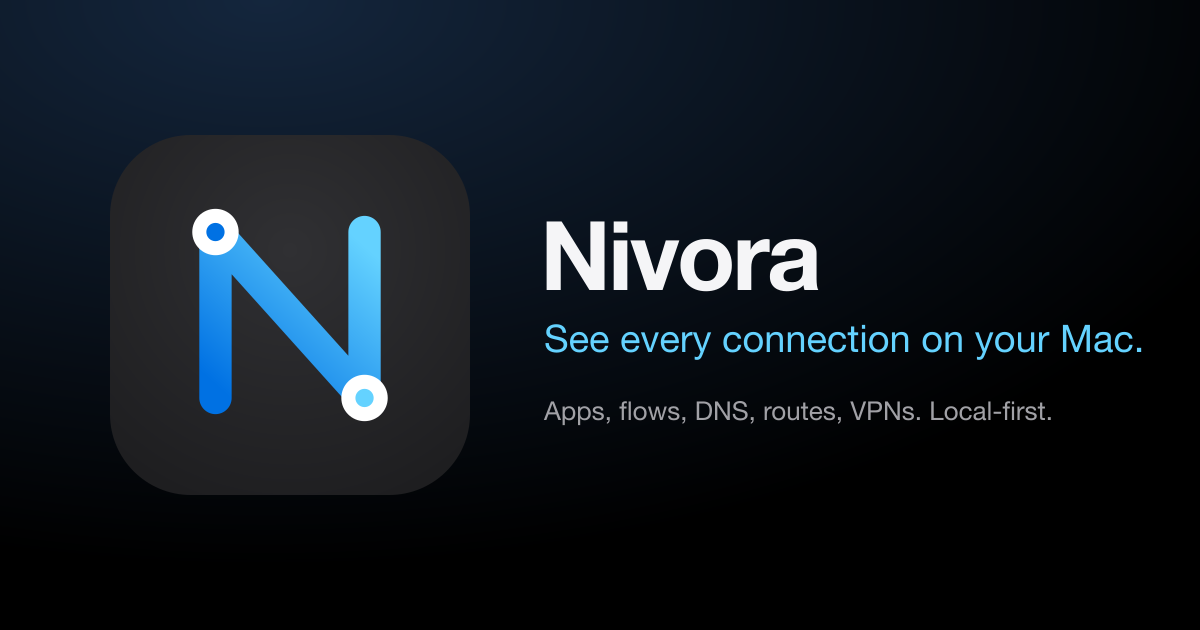
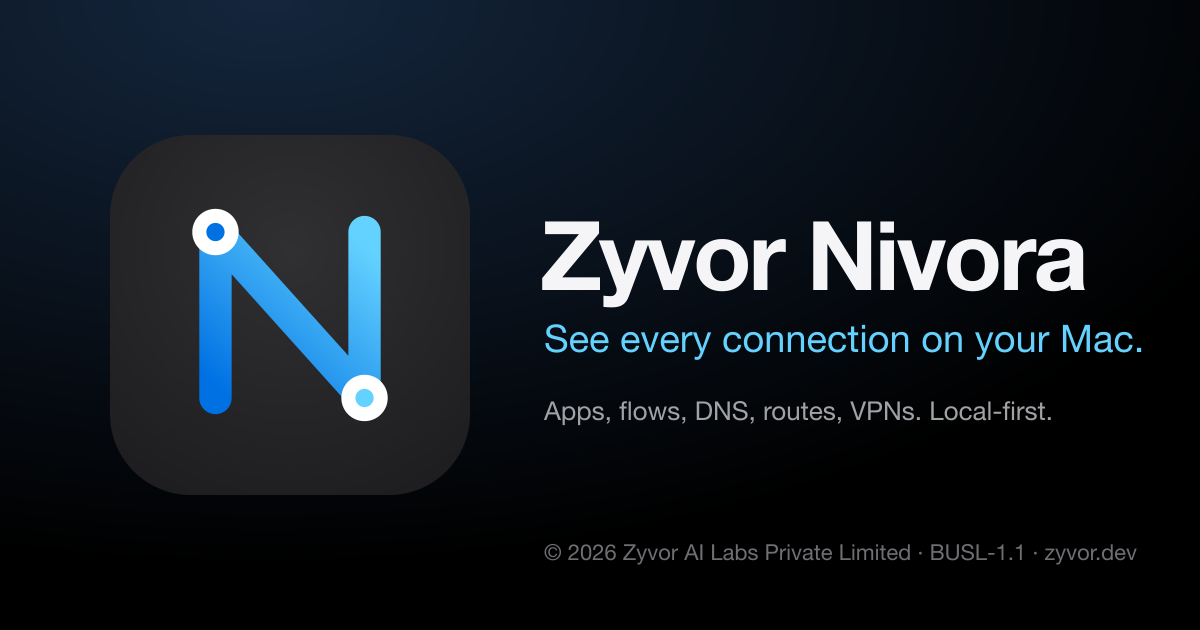
feat: welcome sheet, Overview sparklines and events, help menu, Zyvor legal line
Zyvor name, copyright and BUSL-1.1 wording now match Zyvor Vytrix across the
bundle, app, dashboard and share image.

Changed region(s): [[0.4317, 0.3317, 0.925, 0.4825], [0.4625, 0.8444, 0.8325, 0.9048], [0.8633, 0.8746, 0.9558, 0.9048]]

diff --git a/native/App/Views/WelcomeView.swift b/native/App/Views/WelcomeView.swift
@@ -1,0 +1,87 @@
+// SPDX-License-Identifier: BUSL-1.1
+import SwiftUI
+
+/// Shown once on first launch: what Nivora sees, what it never does, and how to start.
+struct WelcomeView: View {
+    @EnvironmentObject var store: NivoraStore
+    @Environment(\.dismiss) private var dismiss
+
+    var body: some View {
+        VStack(spacing: 22) {
+            VStack(spacing: 8) {
+                Image(nsImage: NSApp.applicationIconImage).resizable().frame(width: 72, height: 72)
+                Text("Welcome to Nivora").netraTitle(26)
+                Text("See every connection on your Mac.").foregroundStyle(Palette.textSecondary)
+            }
+            HStack(alignment: .top, spacing: 14) {
+                card("eye", "What it sees",
+                     "Which apps talk to what, over which interface: flows, DNS, routes, VPNs, listeners and local neighbours.")
+                card("lock.shield", "What it never does",
+                     "No packet payloads, no uploads, no blocking by default. Everything stays on this Mac and starts in observe mode.")
+                card("slider.horizontal.3", "Go further",
+                     "Add the signed content filter for per-app attribution, or the opt-in capture helper. Both ask for your approval.")
+            }
+            .fixedSize(horizontal: false, vertical: true)
+            HStack {
+                Button("Explore with demo data") { store.useDemo(); finish() }
+                Spacer()
+                Button("Start monitoring this Mac") { store.useThisMac(); finish() }
+                    .buttonStyle(.borderedProminent).keyboardShortcut(.defaultAction)
+            }
+            LegalLine()
+        }
+        .padding(28)
+        .frame(width: 640)
+        .background(Palette.page)
+    }
+
+    private func finish() {
+        UserDefaults.standard.set(true, forKey: WelcomeGate.defaultsKey)
+        dismiss()
+    }
+
+    private func card(_ symbol: String, _ title: String, _ body: String) -> some View {
+        VStack(alignment: .leading, spacing: 8) {
+            Image(systemName: symbol).font(.system(size: 20, weight: .medium)).foregroundStyle(Palette.accent)
+            Text(title).font(.headline)
+            Text(body).font(.callout).foregroundStyle(Palette.textSecondary).fixedSize(horizontal: false, vertical: true)
+        }
+        .padding(16)
+        .frame(maxWidth: .infinity, maxHeight: .infinity, alignment: .topLeading)
+        .background(Palette.panel, in: RoundedRectangle(cornerRadius: 14))
+    }
+}
+
+/// ⌘/ cheat sheet.
+struct ShortcutsView: View {
+    @Environment(\.dismiss) private var dismiss
+    private let rows: [(String, String)] = [
+        ("⌘1 … ⌘9", "Jump to a pane"), ("⌘,", "Settings"), ("⌘R", "Refresh now"), ("⌘P", "Pause or resume sampling"),
+        ("⇧⌘1 / ⇧⌘2", "Monitor this Mac / demo data"), ("⌘F", "Filter flows and apps (app: host: port: proto: >1mbps)"),
+        ("⌘/", "This list"),
+    ]
+    var body: some View {
+        VStack(alignment: .leading, spacing: 12) {
+            HStack { Text("Keyboard shortcuts").netraTitle(18); Spacer(); Button("Done") { dismiss() }.keyboardShortcut(.cancelAction) }
+            ForEach(rows, id: \.0) { k, v in
+                HStack { Text(k).font(.system(.callout, design: .monospaced)).frame(width: 110, alignment: .leading); Text(v).foregroundStyle(Palette.textSecondary) }
+            }
+        }
+        .padding(24).frame(width: 460).background(Palette.page)
+    }
+}
+
+/// "Zyvor Nivora · © 2026 Zyvor AI Labs Private Limited · BUSL-1.1", same wording as Zyvor Vytrix.
+struct LegalLine: View {
+    private var version: String { Bundle.main.object(forInfoDictionaryKey: "CFBundleShortVersionString") as? String ?? "" }
+    var body: some View {
+        VStack(spacing: 2) {
+            Text("Zyvor Nivora \(version)").font(.caption.weight(.medium))
+            HStack(spacing: 4) {
+                Text("© 2026 Zyvor AI Labs Private Limited · BUSL-1.1 ·")
+                Link("zyvor.dev", destination: URL(string: "https://zyvor.dev")!)
+            }
+        }
+        .font(.caption).foregroundStyle(Palette.textSecondary)
+    }
+}

diff --git a/web/index.html b/web/index.html
@@ -4,6 +4,7 @@
   <meta charset="utf-8" />
   <meta name="viewport" content="width=device-width,initial-scale=1" />
   <meta name="color-scheme" content="light dark" />
+  <meta name="author" content="Zyvor AI Labs Private Limited" />
   <title>Nivora — Mac network intelligence</title>
   <meta name="theme-color" content="#1d1d1f" />
   <link rel="icon" href="favicon.svg" type="image/svg+xml" />
@@ -20,7 +21,7 @@
     </div>
     <div class="shell">
       <aside class="sidebar">
-        <div class="brand"><div class="brand-mark">N</div><div><strong>Nivora</strong><small>Network Intelligence</small></div></div>
+        <div class="brand"><img class="brand-icon" src="favicon.svg" width="30" height="30" alt="" /><div><strong>Nivora</strong><small>Network Intelligence</small></div></div>
         <div class="status-pill"><span id="liveDot" class="dot"></span><span id="liveLabel" role="status" aria-live="polite">Connecting</span></div>
         <nav id="nav">
           <div class="nav-label">Monitor</div>
@@ -52,6 +53,7 @@
       <section class="content">
         <header class="content-header"><div><p id="eyebrow">Monitor</p><h1 id="viewTitle">Overview</h1><p id="viewSubtitle">What is talking to what, through which network.</p></div><div class="header-actions"><div class="search"><span>⌕</span><input id="search" aria-label="Search" placeholder="Filter…  app:Safari port:443  ( / )" /></div><button id="exportCsvBtn" class="glass-btn" title="Export…">Export</button><button id="refreshBtn" class="glass-btn" title="Refresh (r)">Refresh</button></div></header>
         <div id="contentBody" class="content-body"></div>
+        <footer class="legal"><b>Zyvor Nivora</b> · © 2026 Zyvor AI Labs Private Limited · BUSL-1.1 · <a href="https://zyvor.dev" rel="noopener">zyvor.dev</a></footer>
       </section>
     </div>
   </main>
@@ -92,7 +94,7 @@
 
   <dialog id="connectDialog">
     <form method="dialog" class="dialog-card">
-      <div class="brand-mark large">N</div>
+      <img class="brand-icon large" src="favicon.svg" width="48" height="48" alt="" />
       <h2>Connect to Nivora</h2>
       <p>The collector protects its local API with a bearer token. Paste the token printed by <code>nivora.py</code>. It is kept only in this tab.</p>
       <label>Token<input id="tokenInput" type="password" autocomplete="off" placeholder="NIVORA_TOKEN" /></label>

diff --git a/native/App/Views/OverviewView.swift b/native/App/Views/OverviewView.swift
@@ -31,8 +31,22 @@ struct OverviewView: View {
                                         HStack { Text(app.name).font(.callout.weight(.medium)); Spacer(); Text(rateString(app.total_bps)).font(.callout).monospacedDigit().foregroundStyle(Palette.textSecondary) }
                                         Meter(fraction: app.total_bps / peak)
                                     }
+                                    Sparkline(values: store.appRates[app.name]).frame(width: 64, height: 24)
                                 }
                             }.buttonStyle(.plain)
+                        }
+                    }
+                    VStack(spacing: 16) {
+                    Panel(title: "What changed", subtitle: "Recent network events") {
+                        let events = Array((s.recent_events ?? []).suffix(4).reversed())
+                        if events.isEmpty {
+                            Text("Nothing has changed since Nivora started watching.").foregroundStyle(Palette.textSecondary)
+                        }
+                        ForEach(events) { e in
+                            VStack(alignment: .leading, spacing: 2) {
+                                Text(e.title).font(.callout.weight(.medium))
+                                if let d = e.detail, !d.isEmpty { Text(d).font(.caption).foregroundStyle(Palette.textSecondary) }
+                            }
                         }
                     }
                     Panel(title: "What needs attention") {
@@ -41,6 +55,7 @@ struct OverviewView: View {
                         } else {
                             ForEach(store.alerts.prefix(5)) { AlertRow(alert: $0) }
                         }
+                    }
                     }
                 }
             }

diff --git a/native/App/Model/Welcome.swift b/native/App/Model/Welcome.swift
@@ -1,0 +1,33 @@
+// SPDX-License-Identifier: BUSL-1.1
+import Foundation
+
+/// First-run gating, kept pure so it can be unit tested.
+enum WelcomeGate {
+    static let defaultsKey = "nivora.welcomed"
+
+    /// Shown once, never while scripting screenshots (`--demo`, `--section`) or after the user has seen it.
+    static func shouldShow(welcomed: Bool, arguments: [String] = CommandLine.arguments) -> Bool {
+        if arguments.contains("--welcome") { return true }   // forces the sheet (screenshots, QA)
+        if welcomed { return false }
+        return !arguments.contains("--demo") && !arguments.contains("--section") && !arguments.contains("--no-welcome")
+    }
+}
+
+/// Fixed-size ring buffer of recent values per key (per-app and per-flow sparklines).
+struct RateHistory {
+    private(set) var series: [String: [Double]] = [:]
+    let capacity: Int
+
+    init(capacity: Int = 60) { self.capacity = capacity }
+
+    /// Appends one sample per live key and drops keys that disappeared.
+    mutating func record(_ values: [String: Double]) {
+        for (k, v) in values {
+            series[k, default: []].append(v)
+            if series[k]!.count > capacity { series[k]!.removeFirst(series[k]!.count - capacity) }
+        }
+        for k in series.keys where values[k] == nil { series[k] = nil }
+    }
+
+    subscript(key: String) -> [Double] { series[key] ?? [] }
+}

diff --git a/native/App/Views/RootView.swift b/native/App/Views/RootView.swift
@@ -5,6 +5,8 @@ struct RootView: View {
     @EnvironmentObject var store: NivoraStore
     @EnvironmentObject var filter: NivoraFilterManager
     @State private var section: Pane?
+    @State private var showWelcome = WelcomeGate.shouldShow(welcomed: UserDefaults.standard.bool(forKey: WelcomeGate.defaultsKey))
+    @State private var showShortcuts = false
 
     var body: some View {
         NavigationSplitView {
@@ -71,6 +73,9 @@ struct RootView: View {
         .sheet(item: Binding(get: { store.selectedFlow.map(FlowSelection.init) }, set: { store.selectedFlow = $0?.id })) { sel in
             FlowDetailSheet(flowID: sel.id)
         }
+        .sheet(isPresented: $showWelcome) { WelcomeView() }
+        .sheet(isPresented: $showShortcuts) { ShortcutsView() }
+        .onReceive(NotificationCenter.default.publisher(for: .nivoraShowShortcuts)) { _ in showShortcuts = true }
         .task { await filter.load() }
         .onAppear { if section == nil { section = store.pane ?? .overview } }
         // Keep the sidebar selection and the persisted/menu-driven pane in sync without recreating bindings.
@@ -113,3 +118,5 @@ struct HostFooter: View {
 }
 
 struct FlowSelection: Identifiable { let id: String }
+
+extension Notification.Name { static let nivoraShowShortcuts = Notification.Name("nivora.showShortcuts") }

diff --git a/native/App/Model/NivoraStore.swift b/native/App/Model/NivoraStore.swift
@@ -75,6 +75,7 @@ final class NivoraStore: ObservableObject {
     }
     @Published private(set) var baseline: (time: Date, flows: [NivoraSnapshot.Flow])?
     @Published private(set) var flowRates: [String: [Double]] = [:]
+    @Published private(set) var appRates = RateHistory()
 
     func pinBaseline() { if let s = snapshot { baseline = (Date(), s.flows) } }
     func clearBaseline() { baseline = nil }
@@ -185,6 +186,9 @@ final class NivoraStore: ObservableObject {
             for f in s.flows { rates[f.id, default: []].append(f.total_bps); if rates[f.id]!.count > 60 { rates[f.id]!.removeFirst() } }
             for k in rates.keys where !s.flows.contains(where: { $0.id == k }) { rates[k] = nil }
             flowRates = rates
+            var appBuf = appRates
+            appBuf.record(Dictionary(s.apps.map { ($0.name, $0.total_bps) }, uniquingKeysWith: { a, b in a + b }))
+            appRates = appBuf
             history.append(Sample(time: Date(), rx: s.traffic.rx_bps, tx: s.traffic.tx_bps, health: s.health.score, flows: s.flows.count))
             if history.count > maxSamples { history.removeFirst(history.count - maxSamples) }
             status = .live

diff --git a/native/App/NivoraApp.swift b/native/App/NivoraApp.swift
@@ -56,6 +56,14 @@ struct NivoraApp: App {
                 Divider()
                 Button("Settings") { store.pane = .settings }.keyboardShortcut(",", modifiers: .command)
             }
+            CommandGroup(replacing: .help) {
+                Button("Keyboard Shortcuts") { NotificationCenter.default.post(name: .nivoraShowShortcuts, object: nil) }
+                    .keyboardShortcut("/", modifiers: .command)
+                Divider()
+                Link("Nivora on GitHub", destination: URL(string: "https://github.com/zyvorai/zyvor-nivora")!)
+                Link("Privacy and What Nivora Collects", destination: URL(string: "https://github.com/zyvorai/zyvor-nivora#privacy-and-safety")!)
+                Link("Report an Issue", destination: URL(string: "https://github.com/zyvorai/zyvor-nivora/issues/new")!)
+            }
             CommandMenu("Source") {
                 Button("Monitor This Mac") { store.useThisMac() }.keyboardShortcut("1", modifiers: [.command, .shift])
                 Button("Show Demo Data") { store.useDemo() }.keyboardShortcut("2", modifiers: [.command, .shift])

diff --git a/native/Tests/SnapshotTests.swift b/native/Tests/SnapshotTests.swift
@@ -135,3 +135,22 @@ final class DiffAndChipTests: XCTestCase {
         XCTAssertTrue(d.changed.isEmpty)
     }
 }
+
+final class WelcomeAndHistoryTests: XCTestCase {
+    func testWelcomeShowsOnceAndNotForScripts() {
+        XCTAssertTrue(WelcomeGate.shouldShow(welcomed: false, arguments: ["Nivora"]))
+        XCTAssertFalse(WelcomeGate.shouldShow(welcomed: true, arguments: ["Nivora"]))
+        XCTAssertFalse(WelcomeGate.shouldShow(welcomed: false, arguments: ["Nivora", "--demo"]))
+        XCTAssertFalse(WelcomeGate.shouldShow(welcomed: false, arguments: ["Nivora", "--section", "flows"]))
+        XCTAssertTrue(WelcomeGate.shouldShow(welcomed: true, arguments: ["Nivora", "--demo", "--welcome"]))
+    }
+
+    func testRateHistoryCapsAndDropsGoneKeys() {
+        var h = RateHistory(capacity: 3)
+        for i in 0..<5 { h.record(["a": Double(i), "b": 1]) }
+        XCTAssertEqual(h["a"], [2, 3, 4])
+        h.record(["a": 9])
+        XCTAssertTrue(h["b"].isEmpty)
+        XCTAssertEqual(h["missing"], [])
+    }
+}

diff --git a/native/App/Views/SettingsView.swift b/native/App/Views/SettingsView.swift
@@ -22,6 +22,12 @@ struct SettingsView: View {
                 Button(store.demo ? "Monitor This Mac" : "Show Demo Data") { store.demo ? store.useThisMac() : store.useDemo() }
                 Text("Nivora is local-first. No telemetry is uploaded and no account is required.").font(.caption).foregroundStyle(Palette.textSecondary)
             }
+            Section("About") {
+                LegalLine().frame(maxWidth: .infinity, alignment: .leading)
+                Link("Licence (Business Source License 1.1)", destination: URL(string: "https://github.com/zyvorai/zyvor-nivora/blob/main/LICENSE")!)
+                Text("Production and commercial deployments require a commercial licence from Zyvor AI Labs Private Limited.")
+                    .font(.caption).foregroundStyle(Palette.textSecondary)
+            }
         }
         .formStyle(.grouped)
     }

diff --git a/native/App/Model/Snapshot.swift b/native/App/Model/Snapshot.swift
@@ -48,6 +48,10 @@ struct NivoraSnapshot: Decodable {
         let connected: Bool; let base_url: String?
         let vms: [Workload]?; let sandboxes: [Workload]?
     }
+    struct Event: Decodable, Identifiable {
+        var id: String { "\(ts)-\(kind)-\(title)" }
+        let ts: String; let kind: String; let title: String; let detail: String?
+    }
     struct Rule: Decodable, Identifiable { let id: String; let action: String; let app: String?; let domain: String?; let ip: String?; let port: Int?; let expires_at: String? }
 
     let timestamp: String
@@ -68,6 +72,7 @@ struct NivoraSnapshot: Decodable {
     let behavior: Behavior?
     let fluxvm: FluxVM?
     let rules: [Rule]?
+    let recent_events: [Event]?
 }
 
 struct QueryResponse: Decodable { let answer: String }

diff --git a/native/App/Views/Components.swift b/native/App/Views/Components.swift
@@ -130,3 +130,19 @@ struct RateChart: View {
         .frame(height: height)
     }
 }
+
+/// Axis-free line for dense rows; decorative, so hidden from accessibility.
+struct Sparkline: View {
+    let values: [Double]
+    var tint: Color = Palette.accent
+    var body: some View {
+        if values.count > 1 {
+            Chart(Array(values.enumerated()), id: \.offset) { LineMark(x: .value("t", $0.offset), y: .value("v", $0.element)) }
+                .chartXAxis(.hidden).chartYAxis(.hidden)
+                .foregroundStyle(tint)
+                .accessibilityHidden(true)
+        } else {
+            Color.clear
+        }
+    }
+}

diff --git a/web/styles.css b/web/styles.css
@@ -147,3 +147,6 @@ mark{background:rgba(255,159,10,.28)}
 .seg-row{display:flex;justify-content:space-between;align-items:center;gap:12px;flex-wrap:wrap}
 .seg.baseline .seg-btn{border-style:dashed}
 .empty .glass-btn{margin-left:8px}
+
+.brand-icon{border-radius:8px;display:block}.brand-icon.large{border-radius:12px;margin:0 auto 8px}
+.legal{margin:28px 0 8px;font-size:12px;color:var(--muted);text-align:center}.legal a{color:inherit}
